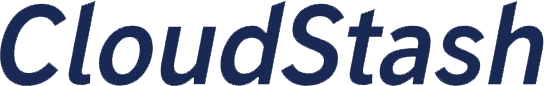
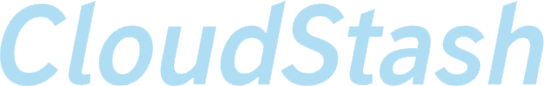
Dark Light Mode

diff --git a/src/components/Global/Header.tsx b/src/components/Global/Header.tsx
@@ -3,27 +3,35 @@ import Image from 'next/image'
 import Link from 'next/link'
 import React from 'react'
 import DLToggle from '@/c/Global/DLToggle'
+import { dark } from '@clerk/themes';
 
 const Header = () => {
   return (
-    <header className='flex items-center justify-between py-3 bg-azure-800 px-5'>
-        <Link href='/' className='flex space-x-4 items-center'>
-
-            <Image src='/logo.png' alt='logo' width={50} height={50}/>
-            <Image src='/text.png' alt='logo' width={250} height={50}/>
-
-        </Link>
-        <div className='flex space-x-4'>
-            {/* Theme Toggle  */}
-            <DLToggle />
-            {/* User Button / Login Functions  */}
-            <UserButton afterSignOutUrl="/"/>
-            <SignedOut>
-                <SignInButton afterSignInUrl='/dashboard' mode='modal' />
-            </SignedOut>
-        </div>
+    <header className='flex items-center justify-between bg-azure-600 dark:bg-azure-800 px-5 py-3'>
+      <Link href='/' className='flex items-center space-x-4'>
+        <Image src='/logo.png' alt='logo' width={50} height={50} />
+        <Image src='/text.png' alt='logo' width={250} height={50} />
+      </Link>
+      <div className='flex space-x-4 items-center'>
+        {/* Theme Toggle  */}
+        <DLToggle />
+        {/* User Button / Login Functions  */}
+        <UserButton
+          afterSignOutUrl='/'
+          
+          appearance={{
+            baseTheme: dark,
+            elements: {
+              avatarBox: 'h-12 w-12'
+            }
+          }}
+        />
+        <SignedOut>
+          <SignInButton afterSignInUrl='/dashboard' mode='modal' />
+        </SignedOut>
+      </div>
     </header>
-  )
+  );
 }
 
 export default Header

diff --git a/src/app/layout.tsx b/src/app/layout.tsx
@@ -26,7 +26,7 @@ export default function RootLayout({
   return (
     <ClerkProvider>
       <html lang='en'>
-        <body className={`bg-dazure-900 text-cslight-500 ${inter.className}`}>
+        <body className={`bg-cslight-400 dark:bg-csdark-700 text-csdark-800 dark:text-cslight-400 ${inter.className}`}>
           <ThemeProvider
             attribute='class'
             defaultTheme='system'
